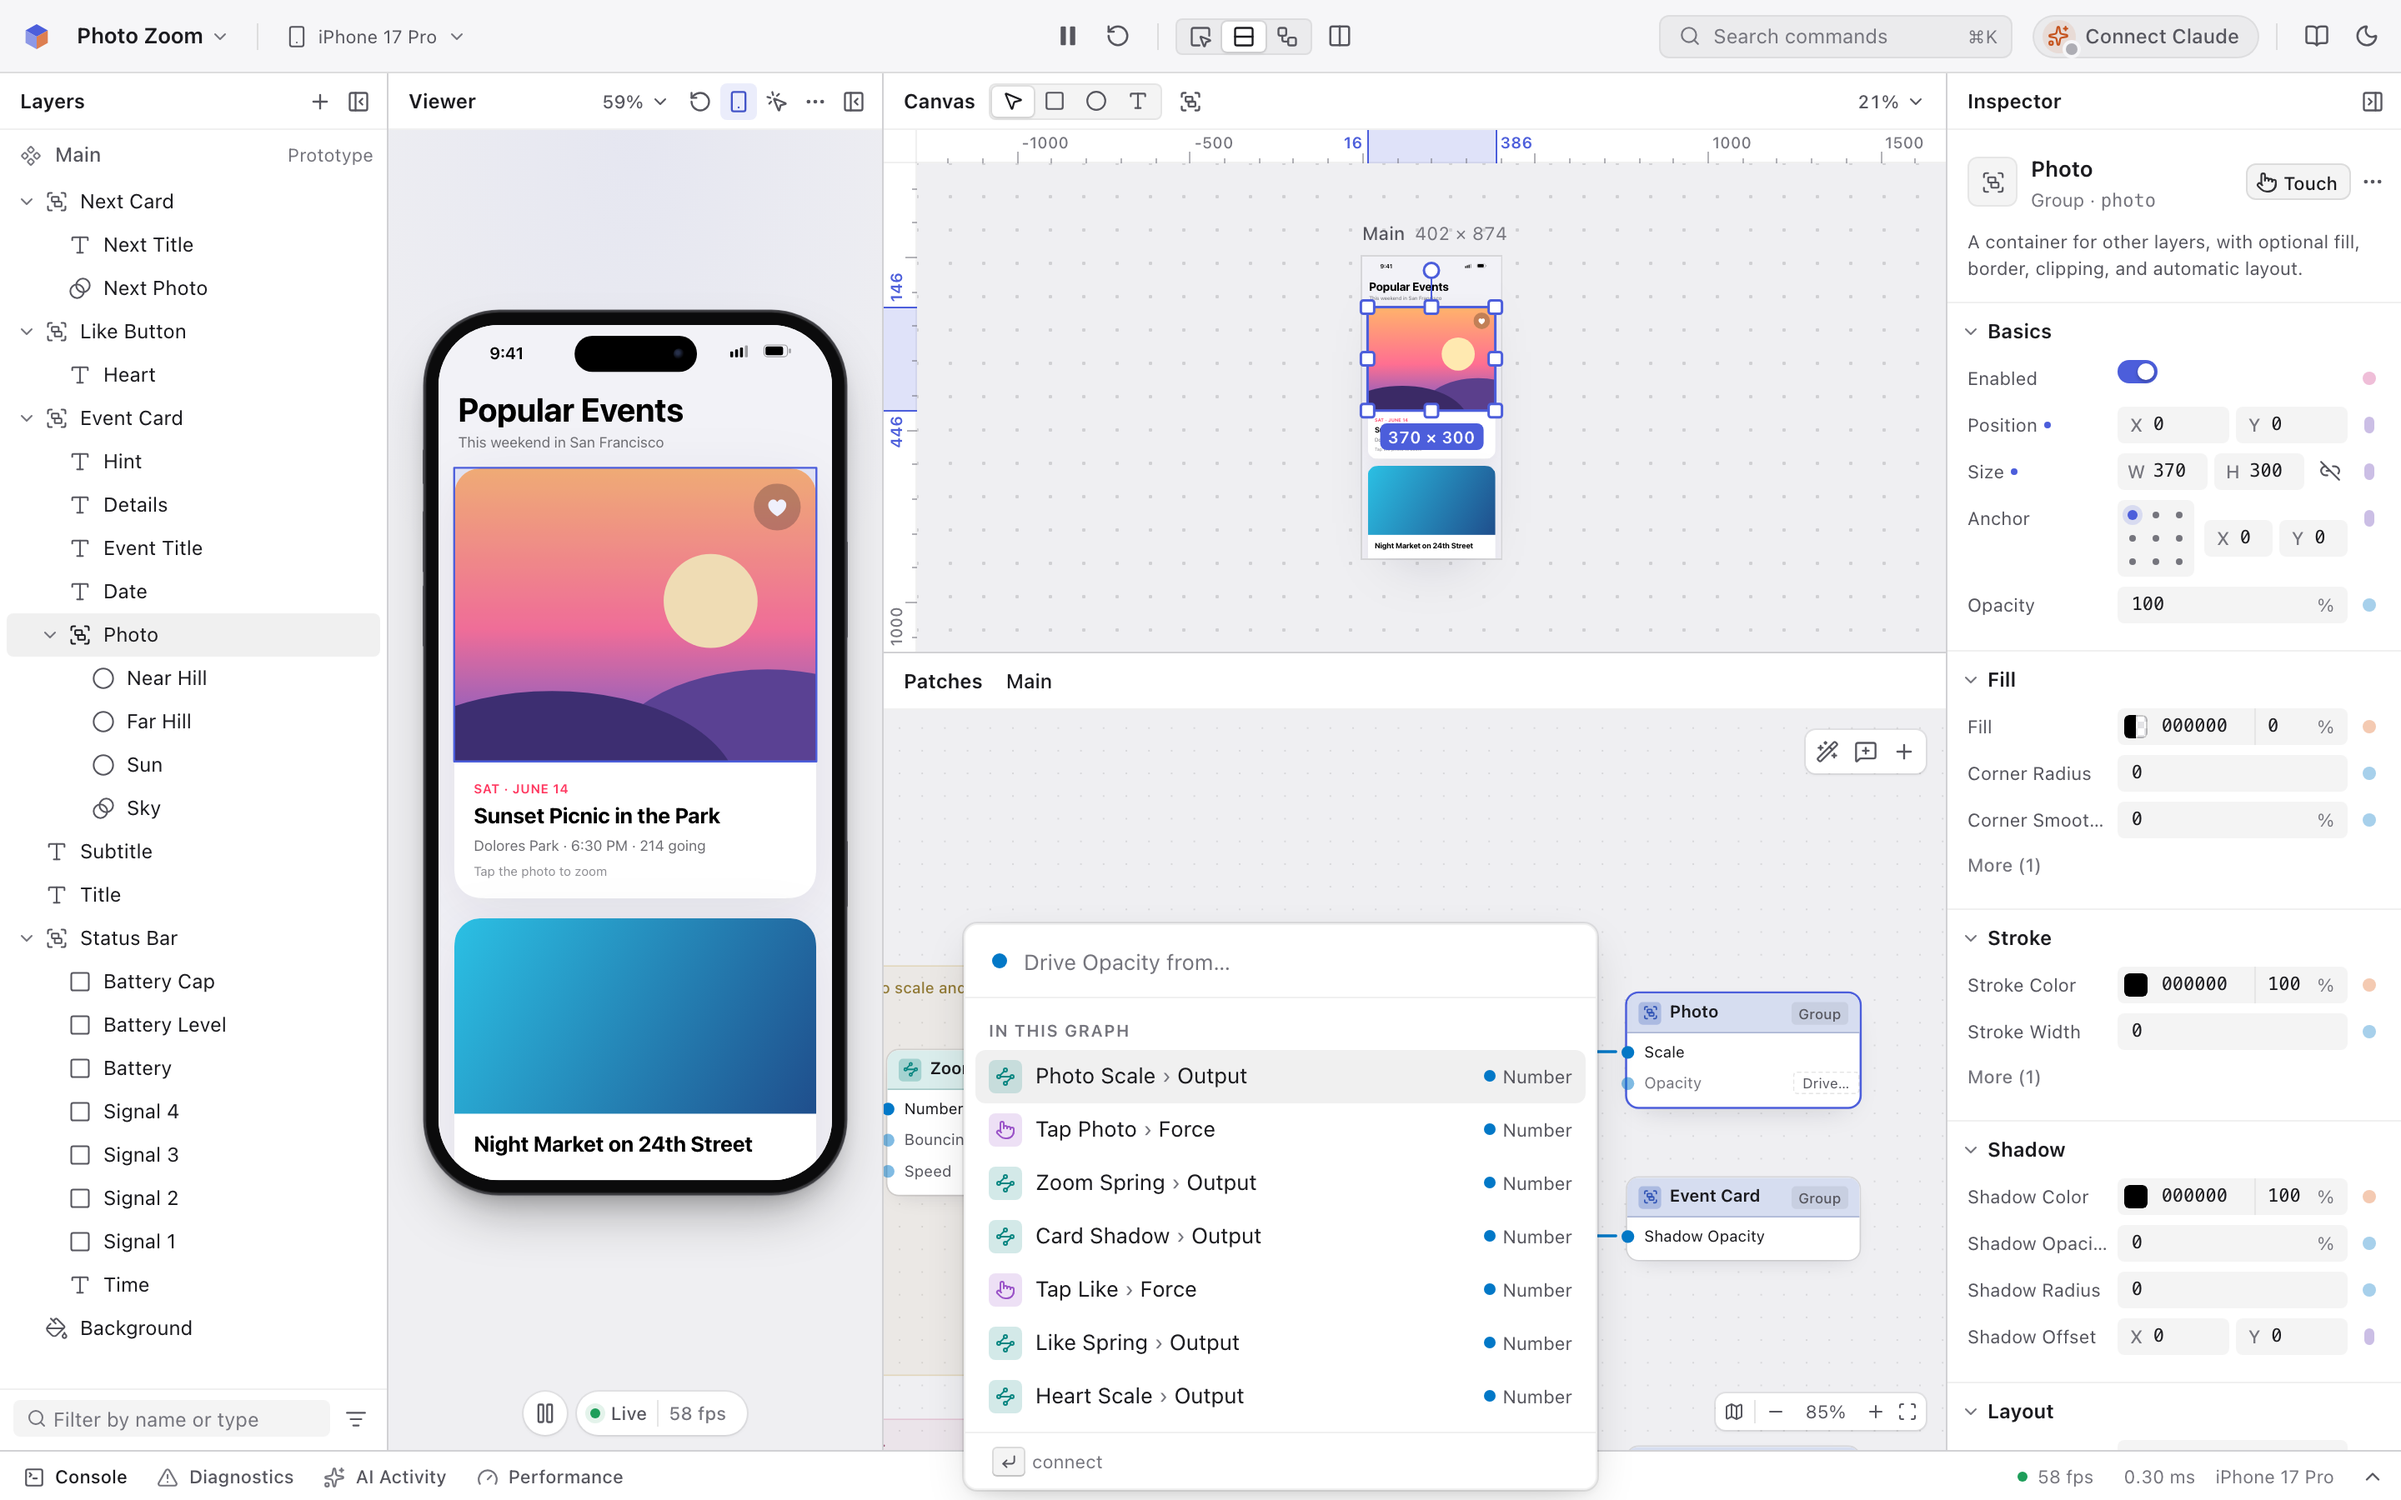
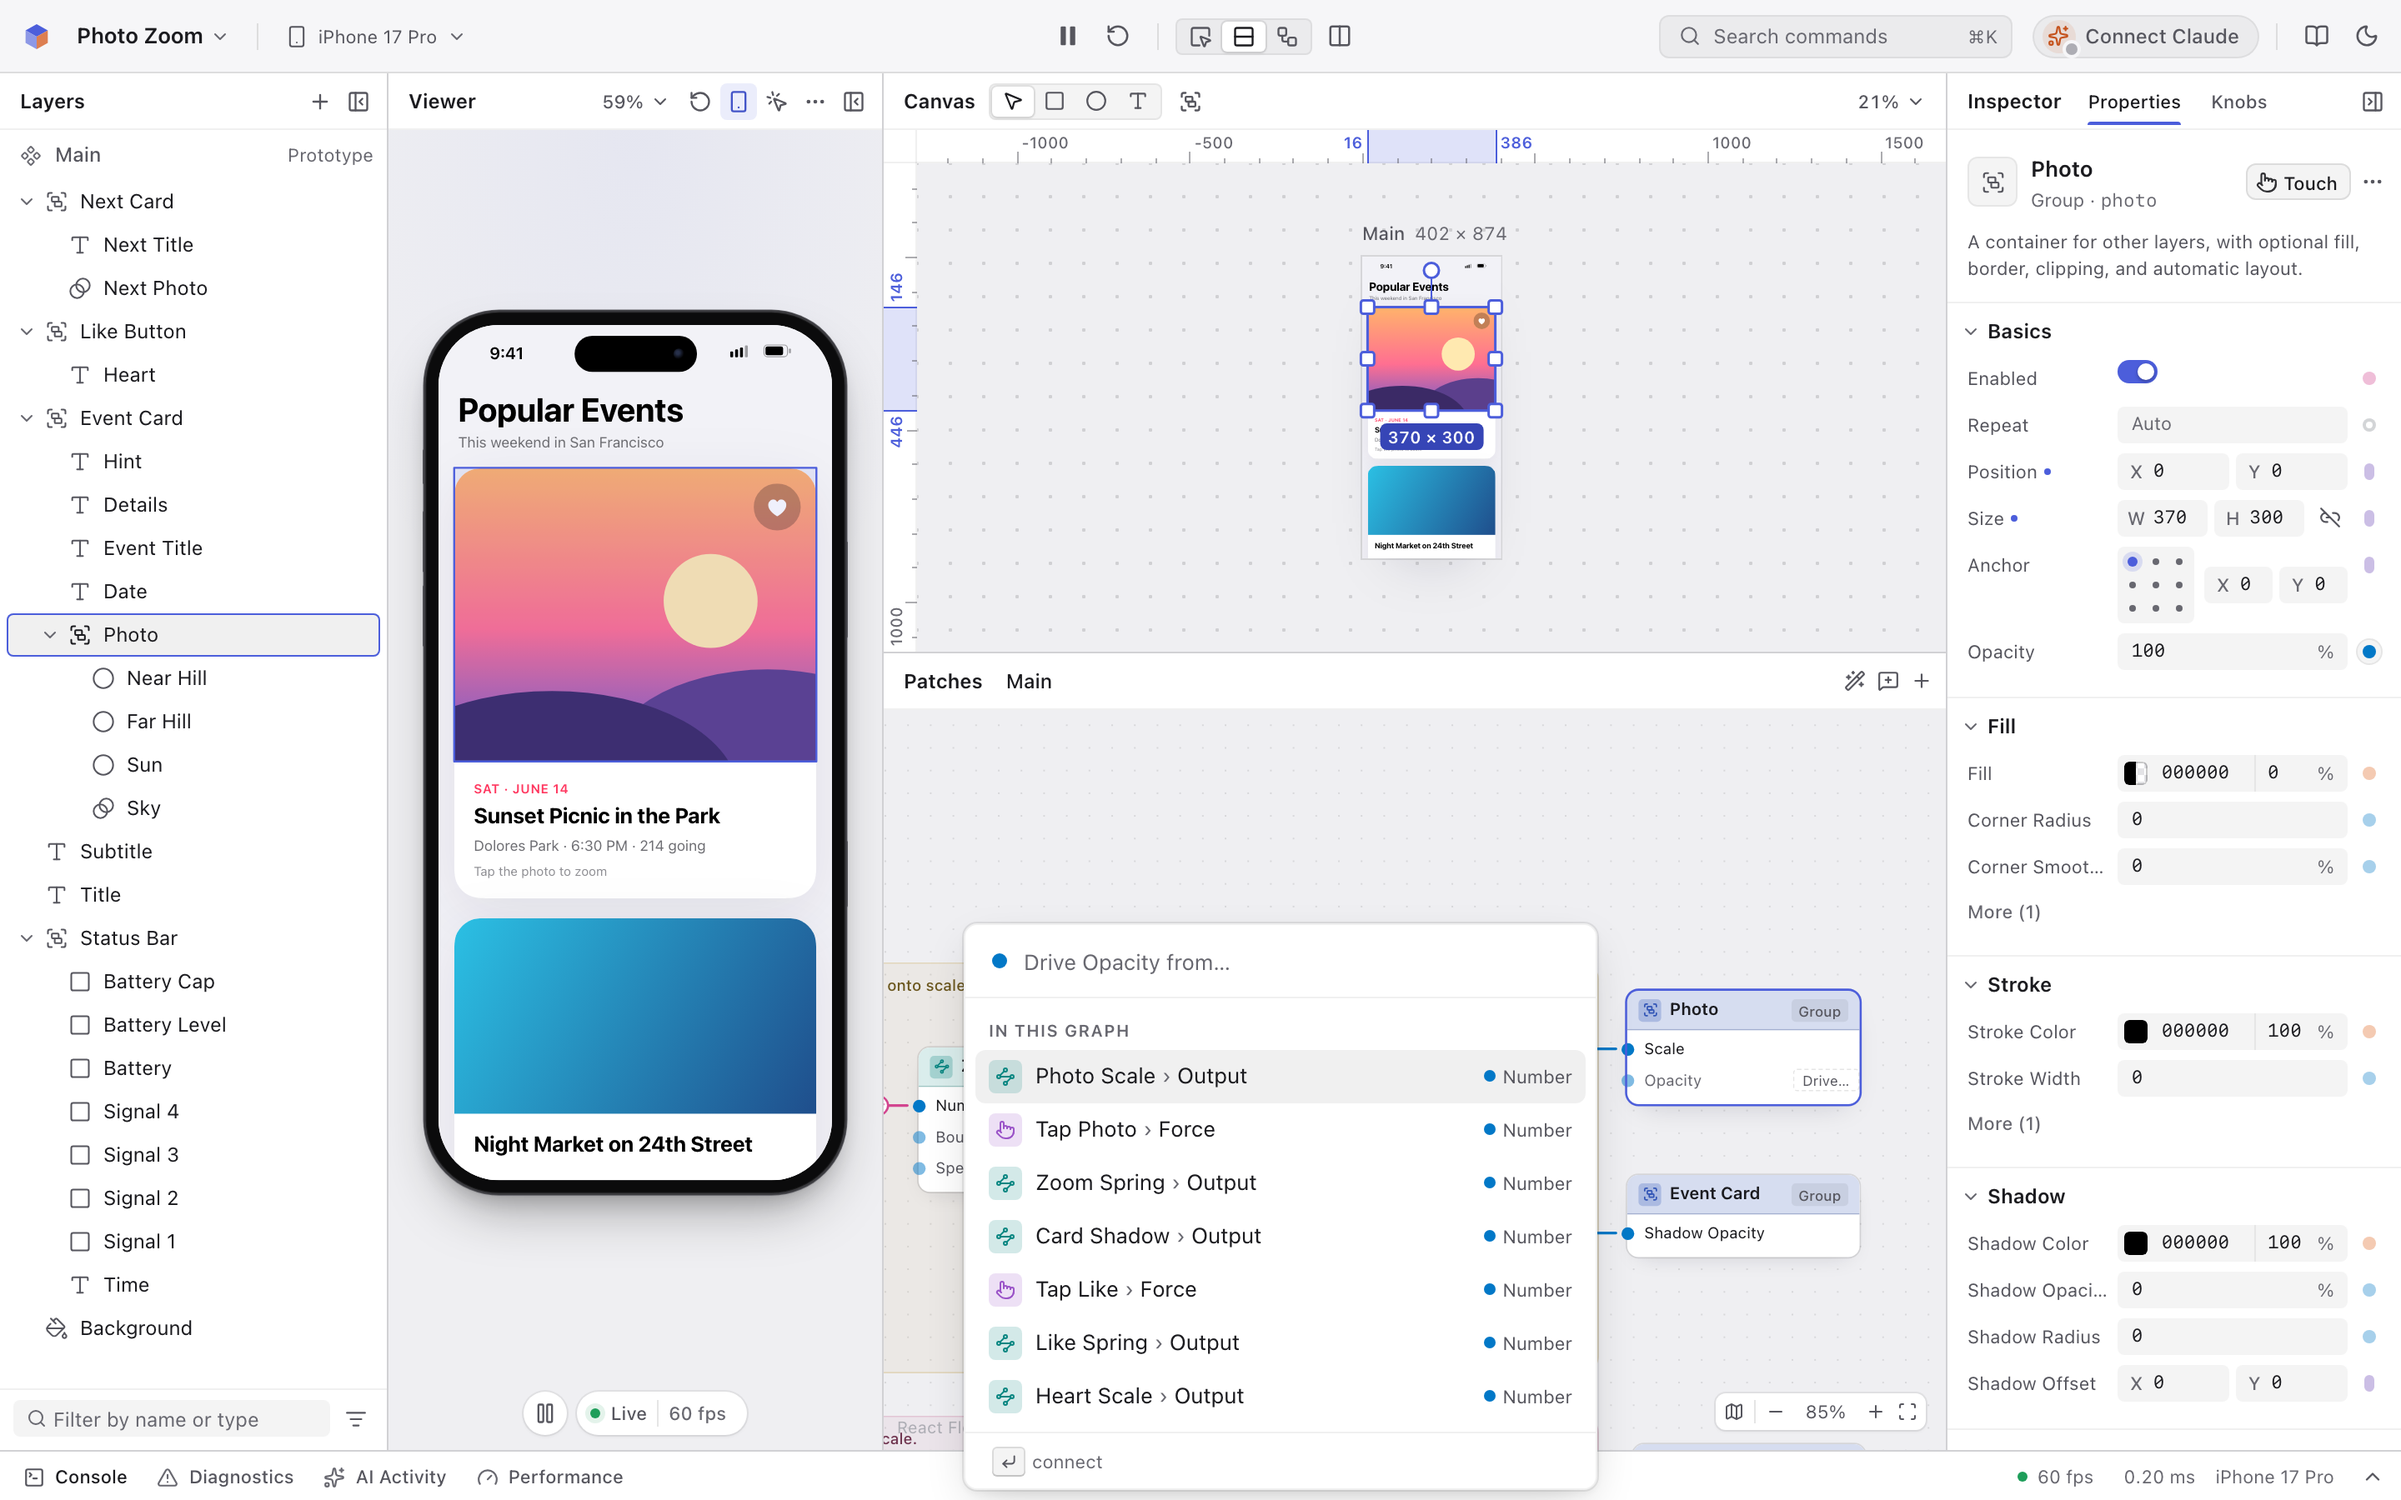
README screenshots show the Inspector's Properties | Knobs tabs and the Repeat row; start-here habits
The hero shots (dark and light) and the drive-with-a-patch shot are retaken the same way (1440x900
at 2x, the Photo Zoom demo, a Mac platform): the Inspector now has its Properties | Knobs tabs and
Basics its Repeat row. claude-activity.png still shows the Inspector header without its tabs; it
needs a live Claude session in the desktop app to retake. The welcome, lesson and import shots
show no changed UI. The start-here guide adds two habits: leave layout to add_patches and
tidy_graph, and restart_viewer when the person's live prototype should start over.

Claude-Session: https://claude.ai/code/session_01A7nFpmeE33dxWcc9aFparA

diff --git a/packages/mcp/guides/start-here.md b/packages/mcp/guides/start-here.md
@@ -124,6 +124,8 @@ Look at the result as well. `atMs` draws a later frame without moving the sessio
 - **Stay in sync.** Each write returns a `revision`. Pass `expectedRevision` when you act on something you read earlier, so you never overwrite edits the person made in the meantime.
 - **Read errors.** A failed call includes a hint and often ready-to-apply `ops`. Nothing changed, so fix the call and retry.
 - **Ask before destroying.** `delete_items` asks for a confirmation token when more than 10 items would go. Undo with `undo`, which refuses to throw away a human's edit unless you name it.
+- **Leave layout to the tools.** Leave out `ui`: `add_patches` places new patches as wide as the editor draws them, and `tidy_graph` lays out a comment frame and reports overlaps (the `graph-basics` guide).
+- **Their viewer keeps state.** Your edits reach the person's live prototype without restarting it, so a count or a switch that's on stays. `restart_viewer` starts it over, on their phone too.
 - **Look without editing.** To see under a layer or try a value, use `sim_override` inside a simulation, or `get_screenshot` with `isolate: true` for one layer alone. Editing and undoing just to look fills the person's undo history.
 - **Save it somewhere.** In the app, a prototype that was never saved is kept as a draft, so it survives a crash or quit, but it isn't a project yet. Ask the person what to call it, save it with `save_document({ "path": "~/Documents/<Name>.sonobe" })`, and tell them where it went. `save_document` never opens a dialog, and it won't make up a folder for "Untitled" (`path_needed`).
 - **Headless mode** (a project folder without the app): there's no editor selection, and `get_screenshot` draws the screen itself with approximate text. `get_document_info` says whether changes save automatically or need `save_document`.
